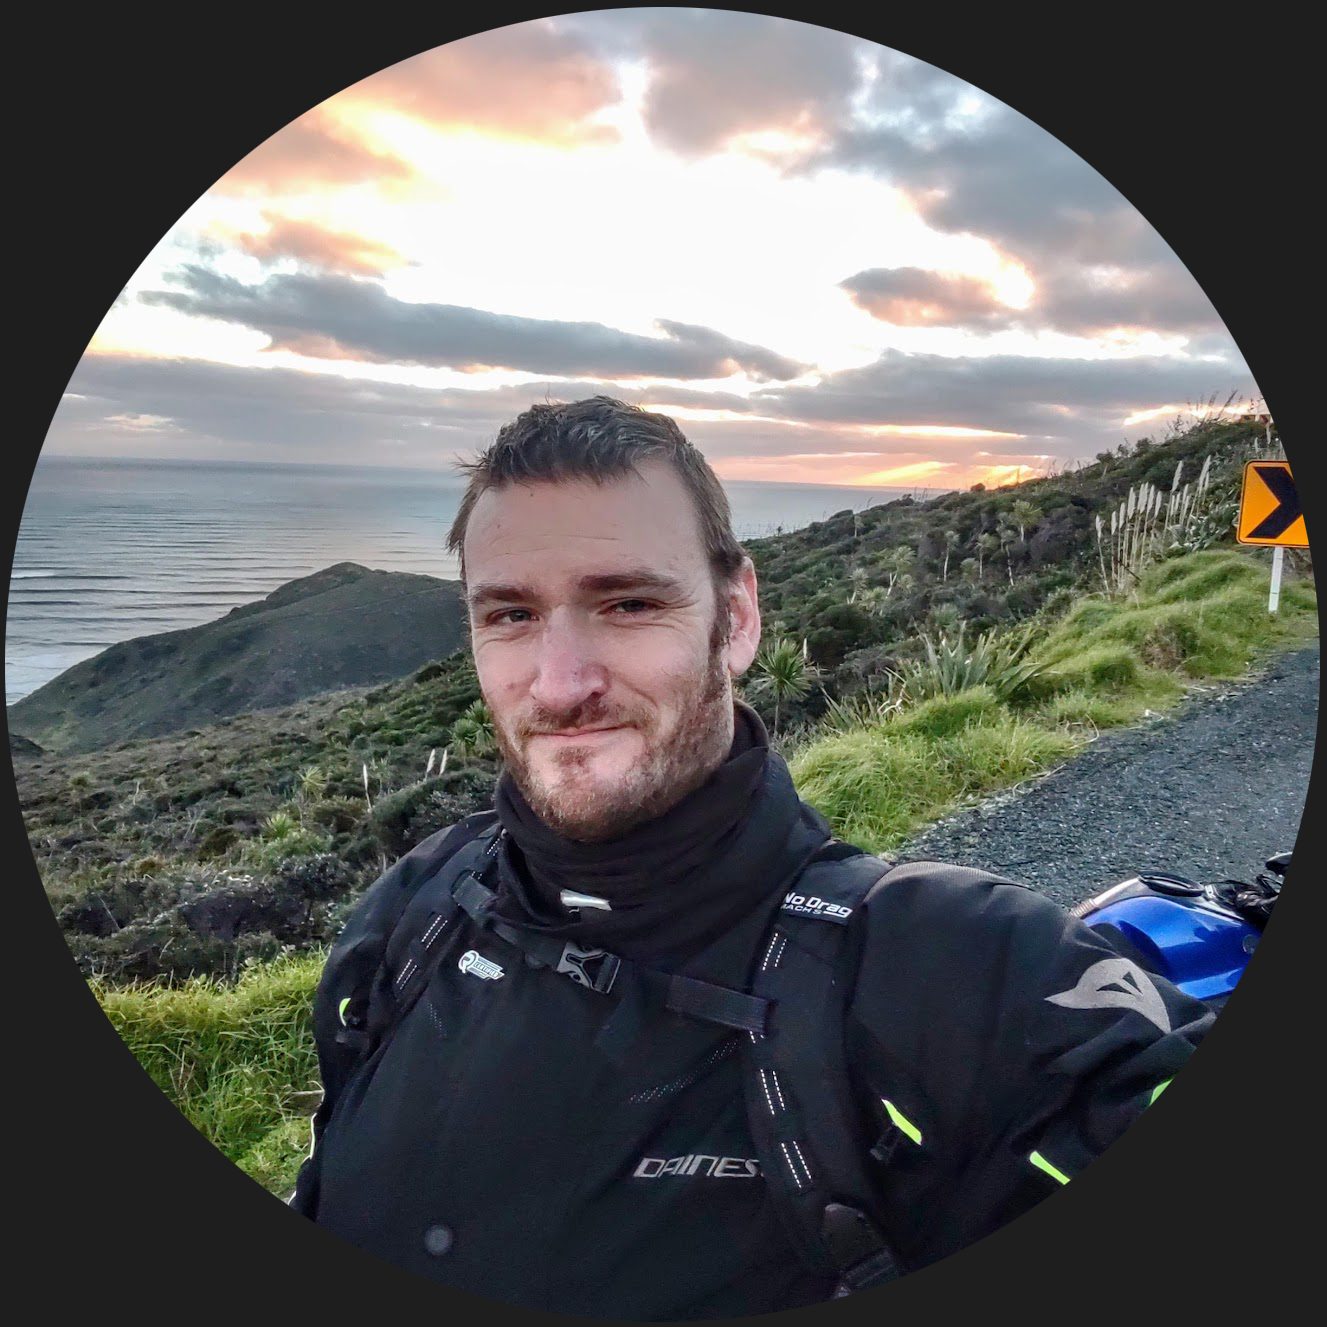
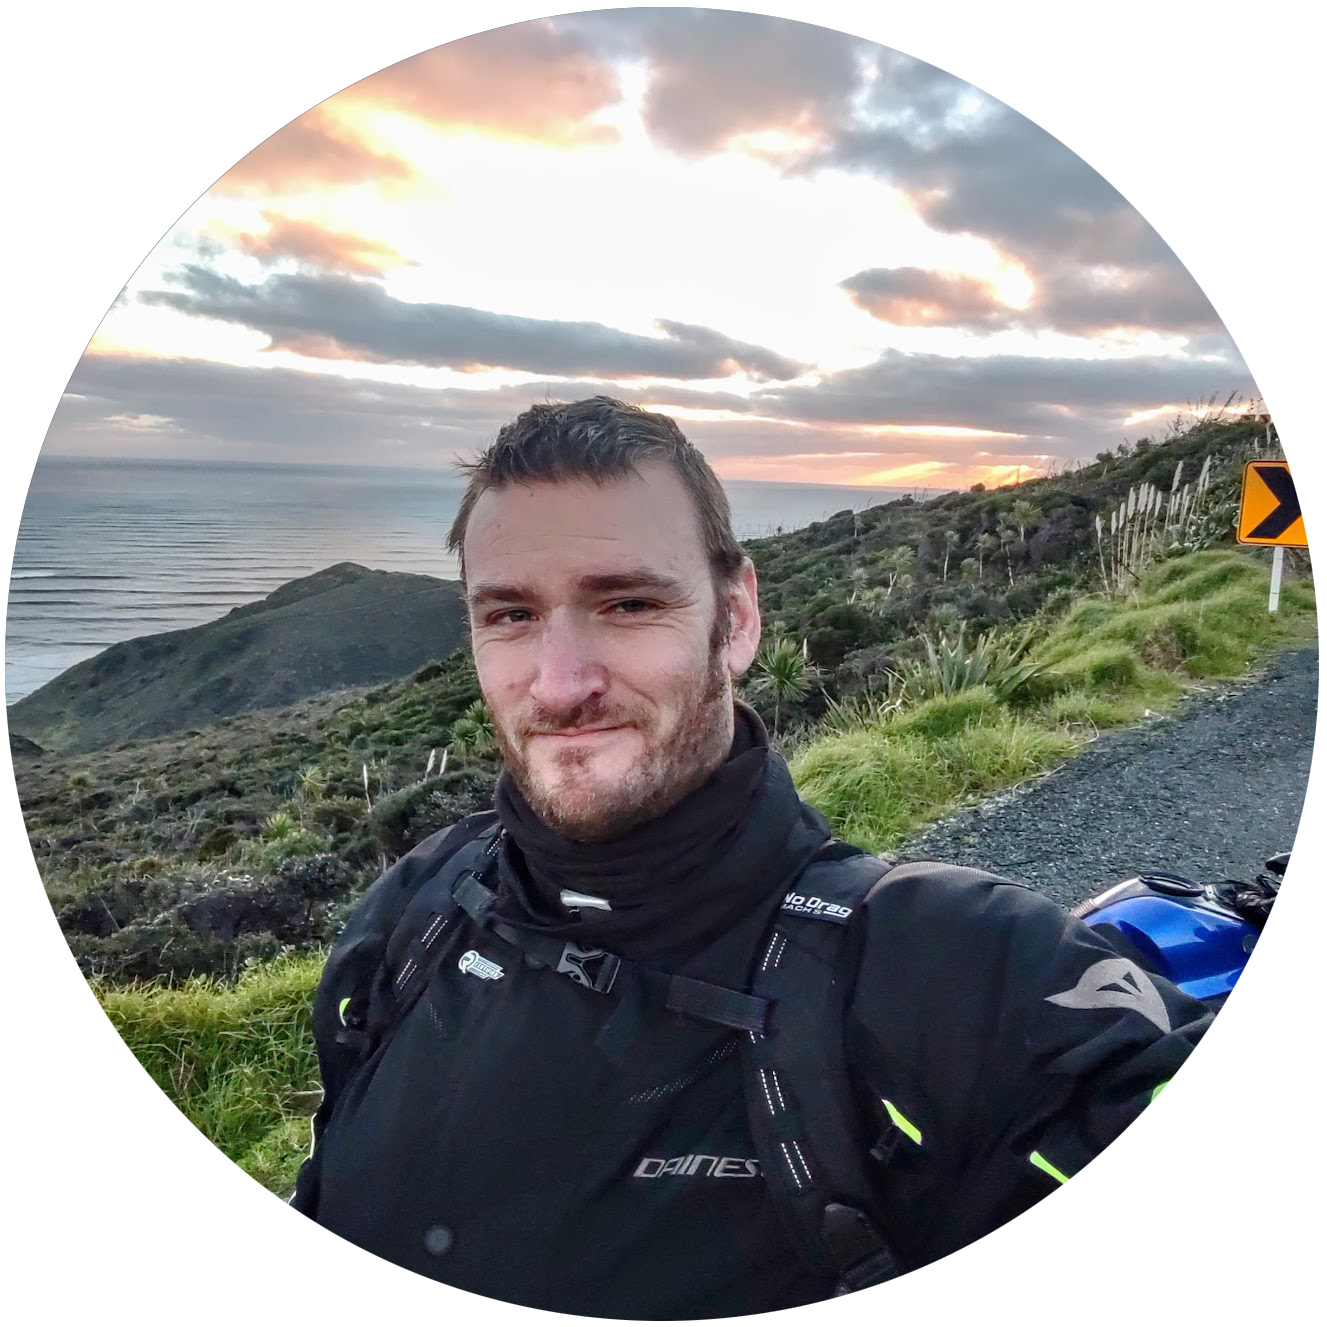
Style update

Changed region(s): [[0.0, 0.0, 1.0, 1.0]]

diff --git a/assets/css/style.css b/assets/css/style.css
@@ -56,18 +56,20 @@
 
   /* solid */
 
-  --jet: hsl(0, 0%, 22%);
-  --onyx: hsl(240, 1%, 17%);
-  --eerie-black-1: hsl(240, 2%, 13%);
-  --eerie-black-2: hsl(240, 2%, 12%);
-  --smoky-black: hsl(0, 0%, 7%);
-  --white-1: hsl(0, 0%, 100%);
-  --white-2: hsl(0, 0%, 98%);
-  --orange-yellow-crayola: hsl(45, 100%, 72%);
+  --specialty: #e8eff7;
+  --jet: #dedaf9;  /* border accent */
+  --onyx: #dde5f0; /* job role backdrop */
+  --eerie-black-1: #d2dae4; /* icon backdrop */
+  --eerie-black-2: #e1eaf4; /* main backdrop */
+  --smoky-black: #e1e5ea;
+  --white-1: #555555;  /* job title text */
+  --white-2: #121212;  /* title text */
+  --orange-yellow-crayola: #f27979; /* icon color and also active selector text video/repo etc */
   --vegas-gold: hsl(45, 54%, 58%);
-  --light-gray: hsl(0, 0%, 84%);
-  --light-gray-70: hsla(0, 0%, 84%, 0.7);
-  --bittersweet-shimmer: hsl(0, 43%, 51%);
+  --light-gray: #f27979; /* secondary text, unselected selector text */
+  --light-gray-70: #555555; /* main text and social icon color */
+  --bittersweet-shimmer: #f27979;
+  --nav-bar: #f3faff;
 
   /**
    * typography
@@ -96,19 +98,13 @@
    * shadow
    */
   
-  --shadow-1: -4px 8px 24px hsla(0, 0%, 0%, 0.25);
-  --shadow-2: 0 16px 30px hsla(0, 0%, 0%, 0.25);
-  --shadow-3: 0 16px 40px hsla(0, 0%, 0%, 0.25);
-  --shadow-4: 0 25px 50px hsla(0, 0%, 0%, 0.15);
-  --shadow-5: 0 24px 80px hsla(0, 0%, 0%, 0.25);
-
-  /**
-   * transition
-   */
-
-  --transition-1: 0.25s ease;
+  --shadow-1: 0px 4px 6px rgba(0, 0, 0, 0.1);   /* Light shadow for depth */
+  --shadow-2: 0px 6px 8px rgba(0, 0, 0, 0.1);
+  --shadow-3: 0px 8px 10px rgba(0, 0, 0, 0.15);
+  --shadow-4: 0px 10px 20px rgba(0, 0, 0, 0.1);
+  --shadow-5: 0px 14px 24px rgba(0, 0, 0, 0.25);
+  --transition-1: 0.3s ease;
   --transition-2: 0.5s ease-in-out;
-
 }
 
 
@@ -184,7 +180,7 @@ article {
 
 .icon-box {
   position: relative;
-  background: var(--border-gradient-onyx);
+  background: var(--jet);
   width: 30px;
   height: 30px;
   border-radius: 8px;
@@ -274,7 +270,7 @@ article.active {
 
 .content-card {
   position: relative;
-  background: var(--border-gradient-onyx);
+  background: var(--jet);
   padding: 15px;
   padding-top: 45px;
   border-radius: 14px;
@@ -287,7 +283,7 @@ article.active {
   content: "";
   position: absolute;
   inset: 1px;
-  background: var(--bg-gradient-jet);
+  background: var(--jet);
   border-radius: inherit;
   z-index: -1;
 }
@@ -361,7 +357,7 @@ main {
   border-radius: 0 15px;
   font-size: 13px;
   color: var(--orange-yellow-crayola);
-  background: var(--border-gradient-onyx);
+  background: var(--jet);
   padding: 10px;
   box-shadow: var(--shadow-2);
   transition: var(--transition-1);
@@ -472,7 +468,7 @@ main {
   bottom: 0;
   left: 0;
   width: 100%;
-  background: hsla(240, 1%, 17%, 0.75);
+  background: var(--nav-bar);
   backdrop-filter: blur(10px);
   border: 1px solid var(--jet);
   border-radius: 12px 12px 0 0;
@@ -489,16 +485,16 @@ main {
 }
 
 .navbar-link {
-  color: var(--light-gray);
+  color: var(--white-2);
   font-size: var(--fs-8);
   padding: 20px 7px;
   transition: color var(--transition-1);
 }
 
 .navbar-link:hover,
-.navbar-link:focus { color: var(--light-gray-70); }
+.navbar-link:focus { color: var(--light-gray); }
 
-.navbar-link.active { color: var(--orange-yellow-crayola); }
+.navbar-link.active { color: var(--light-gray-70); }
 
 
 
@@ -511,7 +507,7 @@ main {
 .about .article-title { margin-bottom: 15px; }
 
 .about-text {
-  color: var(--light-gray);
+  color: var(--light-gray-70);
   font-size: var(--fs-6);
   font-weight: var(--fw-300);
   line-height: 1.6;
@@ -537,7 +533,7 @@ main {
 
 .service-item {
   position: relative;
-  background: var(--border-gradient-onyx);
+  background: var(--jet);
   padding: 20px;
   border-radius: 14px;
   box-shadow: var(--shadow-2);
@@ -548,7 +544,7 @@ main {
   content: "";
   position: absolute;
   inset: 1px;
-  background: var(--bg-gradient-jet);
+  background: var(--specialty);
   border-radius: inherit;
   z-index: -1;
 }
@@ -562,7 +558,7 @@ main {
 .service-item-title { margin-bottom: 7px; }
 
 .service-item-text {
-  color: var(--light-gray);
+  color: var(--light-gray-70);
   font-size: var(--fs-6);
   font-weight: var(--fw-3);
   line-height: 1.6;
@@ -853,6 +849,14 @@ main {
 
 
 .skills-item:not(:last-child) { margin-bottom: 15px; }
+
+.skills-item::before {
+  content: "";
+  position: absolute;
+  inset: 1px;
+  background: var(--specialty);
+  z-index: -1;
+}
 
 .skill .title-wrapper {
   display: flex;
@@ -1358,7 +1362,7 @@ textarea.form-input::-webkit-resizer { display: none; }
 
   .avatar-box { border-radius: 30px; }
 
-  .avatar-box img { width: 120px; }
+  .avatar-box img { width: 120px; background-color: var(--eerie-black-2); }
 
   .info-content .name { margin-bottom: 15px; }
 
@@ -1632,14 +1636,14 @@ textarea.form-input::-webkit-resizer { display: none; }
   }
 
   .filter-item button {
-    color: var(--light-gray);
+    color: var(--light-gray-70);
     font-size: var(--fs-5);
     transition: var(--transition-1);
   }
 
-  .filter-item button:hover { color: var(--light-gray-70); }
+  .filter-item button:hover { color: var(--light-gray); }
 
-  .filter-item button.active { color: var(--orange-yellow-crayola); }
+  .filter-item button.active { color: var(--light-gray); }
 
   /* portfolio and blog grid */
 
